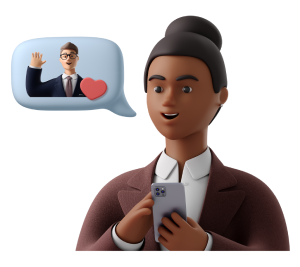
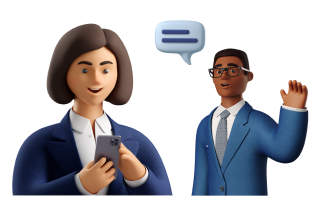
splash screen complete

diff --git a/src/Components/StartScreen/index.js b/src/Components/StartScreen/index.js
@@ -1,5 +1,5 @@
 import React, { Component } from 'react'
-import { Image, Text, View, TouchableOpacity, StyleSheet } from 'react-native';
+import { Image, Text, View, TouchableOpacity, StyleSheet, SafeAreaView } from 'react-native';
 import LinearGradient from 'react-native-linear-gradient';
 
 import { colors, fontFamily, fontSize, levels } from '../../commonStyle';
@@ -39,53 +39,75 @@ export default class Index extends Component {
     }
     render() {
         return (
-            <LinearGradient colors={['#FFF4F5', '#F8F5F9', '#F0F6FF']} style={styles.linearGradient}>
-                <View style={styles.view1}>
-                    <View style={styles.iconView}>
-                        <Image source={require('../../assets/logo.png')} style={styles.imgAttr}/>
-                        <View style={{height:'100%',paddingLeft:levels.l2}}>
-                            <Text style={styles.title}>worldref</Text>
-                            <Text style={styles.tagline}>Globalisation, Simplified</Text>
-                        </View>
-                    </View>
-                </View>
-                <View style={styles.view2}>
-                    <Image source={this.state.data.images[this.state.screenCount]} style={styles.imgPoster} key={this.state.data.heading[this.state.screenCount]} />
-                </View>
-                <View style={styles.view3}>
-                    <Text style={styles.heading}>{this.state.data.heading[this.state.screenCount]}</Text>
-                    <Text style={styles.txt}>{this.state.data.text[this.state.screenCount]}</Text>
-                    <View style={{flexDirection:'row',alignItems:'center'}}>
-                        <View style={{flex:.20}}></View>
-                        <View style={{flex:.6,alignItems:'center'}}>
-                            <View style={styles.dotView}>
-                                {Array.from(Array(6).keys()).map((item,index) => {
-                                    return (
-                                        <View key={this.state.data.heading[index]} style={[index === this.state.screenCount ? {backgroundColor:colors.textPrimary} : {backgroundColor : colors.textFaint},styles.dot]}>
-                                        </View>
-                                    )
-                                })}
+            <>
+                <SafeAreaView style={{backgroundColor:'#FFF4F5',flex:0}}/>
+                <SafeAreaView style={{flex:1,backgroundColor:'#F0F6FF'}}>
+                    <LinearGradient colors={['#FFF4F5', '#F8F5F9', '#F0F6FF']} style={styles.linearGradient}>
+                        <TouchableOpacity style={styles.skipBtn}>
+                            <Text style={{color:colors.primary,textDecorationLine:'underline'}}>Skip</Text>
+                        </TouchableOpacity>
+                        <View style={styles.view1}>
+                            <View style={styles.iconView}>
+                                <Image source={require('../../assets/logo.png')} style={styles.imgAttr}/>
+                                <View style={{height:'100%',paddingLeft:levels.l2}}>
+                                    <Text style={styles.title}>worldref</Text>
+                                    <Text style={styles.tagline}>Globalisation, Simplified</Text>
+                                </View>
                             </View>
                         </View>
-                        <View style={{flex:.20}}>
-                            <TouchableOpacity style={styles.secondaryBtn} onPress={() => this.setState(prevState => {
-                                return{
-                                    ...prevState,
-                                    screenCount: prevState.screenCount+1
-                                }
-                            })}>
-                                <Text style={{color:colors.primary,textAlign:'center'}}>Next</Text>
-                            </TouchableOpacity>
+                        <View style={styles.view2}>
+                            <Image source={this.state.data.images[this.state.screenCount]} style={styles.imgPoster} key={this.state.data.heading[this.state.screenCount]} />
                         </View>
-                    </View>
-                </View>
-            </LinearGradient>
+                        <View style={styles.view3}>
+                            <Text style={styles.heading}>{this.state.data.heading[this.state.screenCount]}</Text>
+                            {this.state.screenCount === 5 ? 
+                                <TouchableOpacity style={styles.primaryBtn}>
+                                    <Text style={{color:'#ffffff'}}>Join Now</Text>
+                                </TouchableOpacity> 
+                            :
+                                <Text style={styles.txt}>{this.state.data.text[this.state.screenCount]}</Text> 
+                            }
+                            <View style={{flexDirection:'row',alignItems:'center'}}>
+                                <View style={{flex:.20}}></View>
+                                <View style={{flex:.6,alignItems:'center'}}>
+                                    <View style={styles.dotView}>
+                                        {Array.from(Array(6).keys()).map((item,index) => {
+                                            return (
+                                                <View key={this.state.data.heading[index]} style={[index === this.state.screenCount ? {backgroundColor:colors.textPrimary} : {backgroundColor : colors.textFaint},styles.dot]}>
+                                                </View>
+                                            )
+                                        })}
+                                    </View>
+                                </View>
+                                <View style={{flex:.20}}>
+                                    {this.state.screenCount !== 5 ?
+                                        <TouchableOpacity style={styles.secondaryBtn} onPress={() => this.setState(prevState => {
+                                            return{
+                                                ...prevState,
+                                                screenCount: prevState.screenCount+1
+                                            }
+                                        })}>
+                                            <Text style={{color:colors.primary,textAlign:'center'}}>Next</Text>
+                                        </TouchableOpacity>
+                                    : null}
+                                </View>
+                            </View>
+                        </View>
+                    </LinearGradient>
+                </SafeAreaView>
+            </>
         )
     }
 }
 
 
 const styles = StyleSheet.create({
+    skipBtn:{
+        flex:.05,
+        alignItems:'flex-end',
+        justifyContent:'center',
+        paddingRight:16
+    },
     linearGradient: {
       flex         : 1,
       paddingLeft  : 16,
@@ -102,7 +124,7 @@ const styles = StyleSheet.create({
         fontFamily    : fontFamily.primaryBold
     },
     view1 :{
-        flex           :.2,
+        flex           :.15,
         flexDirection  :'row',
         alignItems     :'center',
         justifyContent :'center'
@@ -121,7 +143,7 @@ const styles = StyleSheet.create({
         textAlign  :'center'
     },
     view2:{
-        flex           :.5,
+        flex           :.45,
         alignItems     :'center',
         justifyContent :'center'
     },
@@ -136,7 +158,7 @@ const styles = StyleSheet.create({
     view3 : {
         flex:.3,
         alignItems:'center',
-        justifyContent:'center'
+        justifyContent:'space-evenly'
     },
     txt : {
         padding    :levels.l5,
@@ -159,5 +181,12 @@ const styles = StyleSheet.create({
         height          : 10,
         width           : 10,
         borderRadius    : 5,
-    }
+    },
+    primaryBtn: {
+        backgroundColor:colors.primary,
+        borderRadius : 5,
+        padding      : levels.l2,
+        paddingLeft:levels.l7,
+        paddingRight:levels.l7
+    },
 });

diff --git a/src/commonStyle.js b/src/commonStyle.js
@@ -37,4 +37,6 @@ export const levels = {
     l3 : 12,
     l4 : 16,
     l5 : 24,
+    l6 : 28,
+    l7 : 32
 }
